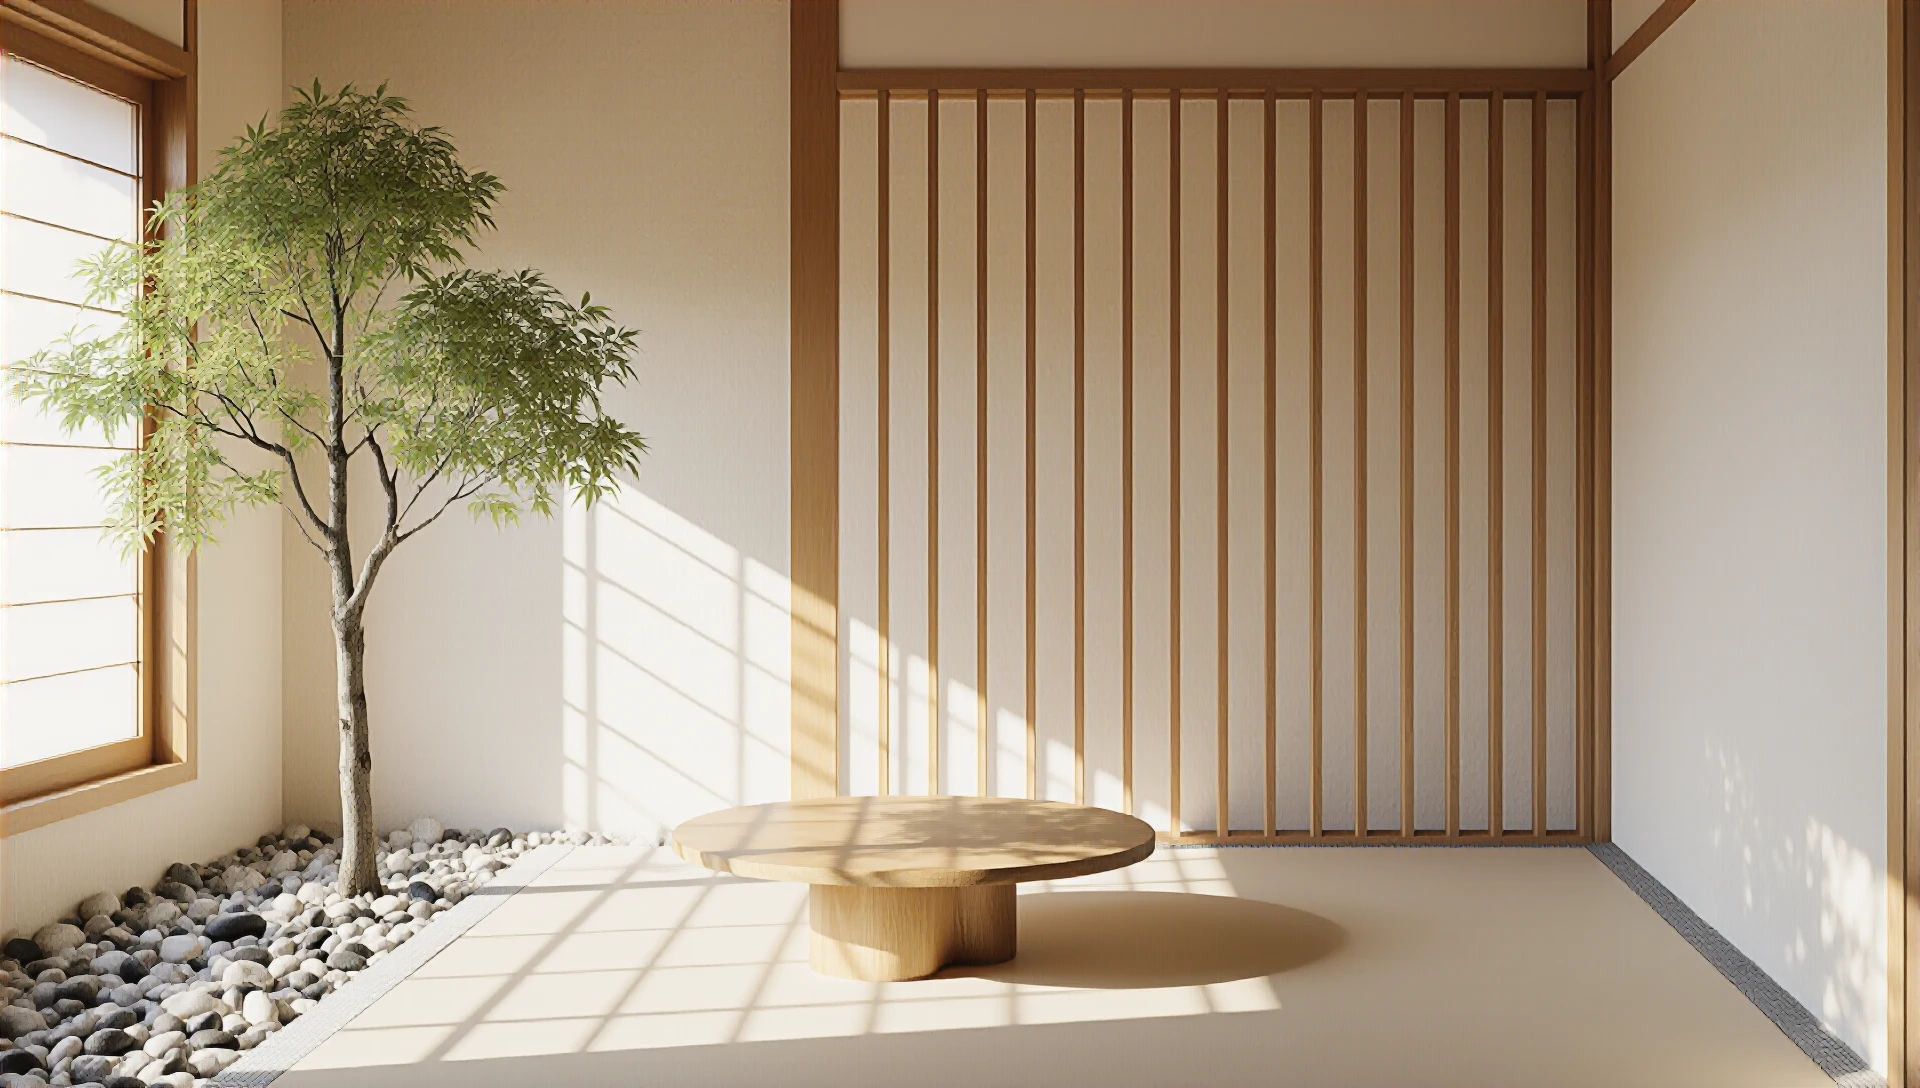
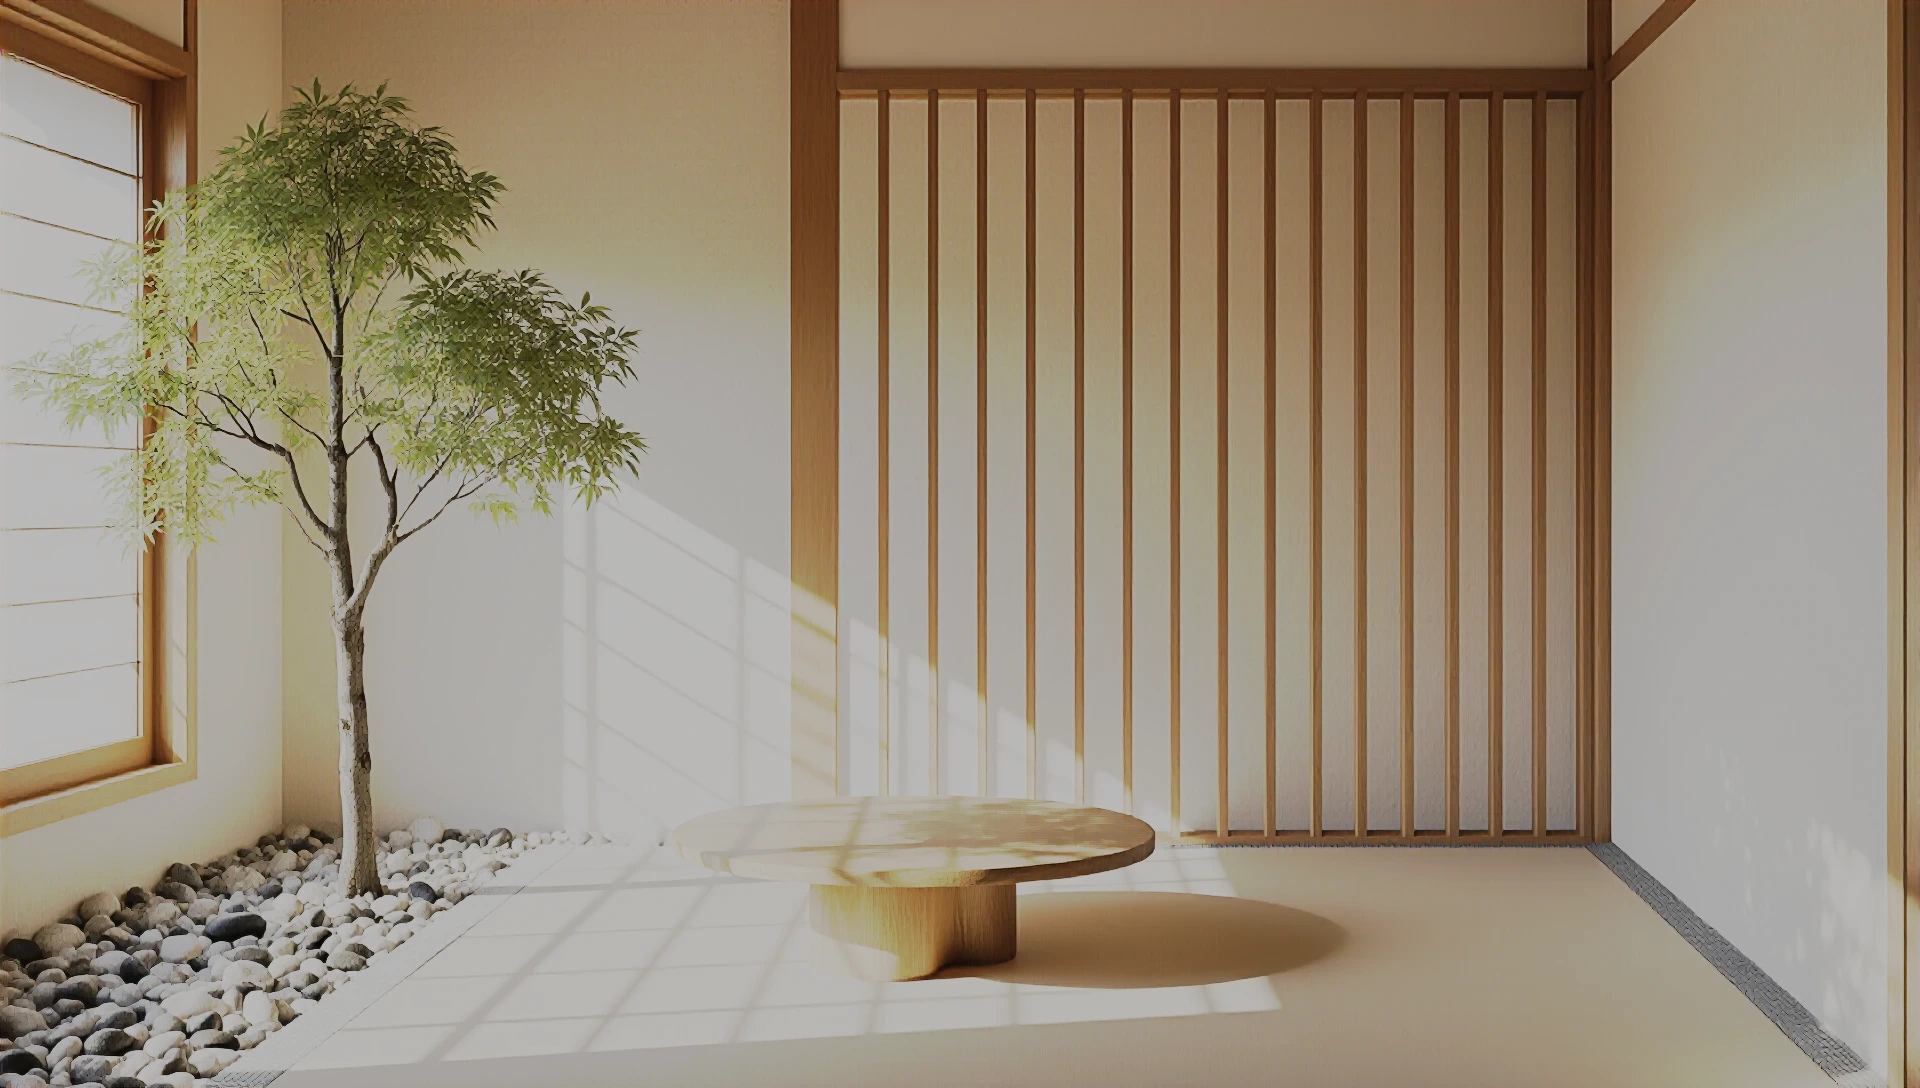
fix: khung cửa sổ làm trọng tâm ⑥⑨ + hết cháy sáng góc trên-trái ⑥
Kenji xem ảnh thật (2 breakpoint) thấy: (1) mobile ⑥⑨ crop lệch, chỉ thấy
sọc gỗ dọc/nếp rèm, khung cửa sổ (chi tiết đẹp nhất ảnh) bị đẩy ra ngoài
hoàn toàn; (2) desktop ⑥ góc trên-trái khung cửa sổ cháy sáng, mất chi tiết.

ĐO XÁC NHẬN TRƯỚC KHI SỬA (không đoán):
- Mobile center-crop mặc định của ⑥ chỉ hiện nguồn x747-1171/1920 (đúng
  dải sọc gỗ), khung cửa sổ x0-190 nằm hẳn ngoài vùng hiển thị. ⑨ tương tự:
  center hiện x800-1121, khung cửa sổ x380-820 cũng khuất.
- Vùng kính cửa sổ ⑥ (y100-400/1088, tức y9-37% section) CHÁY THẬT ở ảnh
  gốc — WCAG luminance TB 0.73, p90 0.99 — dù raw RGB chưa clip cứng
  (R 90th-pct=246/255, 99th=253/255: vẫn còn dải chi tiết bị nén chặt).

SỬA:
- essence-la-gi-v3.webp: nén highlight TOÀN ẢNH (kênh nào >160 kéo về
  160+dư×0.30) — không dùng mask cục bộ (tránh lỗi rìa đã gặp khi sửa mặt
  Kenji ở Hero, PR#73). Đã soi sọc gỗ/sàn/bàn: không đổi, chỉ pixel sáng bị
  nén. Cửa sổ giờ thấy rõ mullion/khung gỗ thay vì mảng trắng.
- background-position: ⑥ mobile 0%/0% (left top), ⑨ mobile 27%/0% — dò để
  khung cửa sổ lọt vùng hiển thị. ⑥ desktop đổi center→left (bg-cover,
  KHÔNG zoom — đã thử zoom 118% trước, kéo bóng cây tối vào đúng đoạn thân
  bài làm contrast tụt 4.54, sát ngưỡng; bỏ zoom, giữ cover thường, chỉ đổi
  position, contrast phục hồi ≥4.73). ⑨ desktop giữ nguyên (đã show khung
  cửa sổ rõ từ trước, không cần đổi).
- Veil ⑥ desktop: mở dải đầu section (0-20%) từ 92%→50%, CHỈ giữ dải hẹp
[…]

diff --git a/src/components/homepage/WhatIsEssence.tsx b/src/components/homepage/WhatIsEssence.tsx
@@ -40,9 +40,52 @@ export default function WhatIsEssence() {
           ~55-65%, không đạt — đã báo Kenji đúng mẫu "CẦN ẢNH MỚI", nhưng
           Kenji xác nhận muốn merge để xem trực tiếp, sẽ đánh giá bằng mắt sau
           khi lên production). Filter sepia(0.4) CÙNG grade tông với ④⑤⑧⑨. */}
+      {/* SỬA 24/07/2026 (brief "khung cửa sổ làm trọng tâm + hết cháy ⑥") —
+          2 thay đổi trên CHÍNH FILE ẢNH essence-la-gi-v3.webp (không phải CSS):
+          (1) khung cửa sổ shoji (x0-190/1920) là chi tiết đẹp nhất ảnh nhưng bị
+          mobile crop đẩy ra ngoài hoàn toàn (center-crop mặc định chỉ thấy
+          x747-1171 — đúng dải sọc gỗ dọc, xem dò position bên dưới);
+          (2) đo pixel xác nhận vùng kính cửa sổ (y100-400/1088, tức y9-37%
+          section) CHÁY THẬT ở ảnh gốc — không phải lỗi veil: WCAG luminance
+          trung bình 0.73, p90 0.99 (gần trắng) dù raw RGB chưa clip cứng
+          (R 90th-pct=246/255, 99th=253/255 — vẫn còn dải chi tiết nén chặt).
+          Nén highlight TOÀN ẢNH (không mask cục bộ — tránh lỗi rìa đã gặp khi
+          sửa mặt Kenji ở Hero): kênh nào >160 bị kéo về 160+phần dư×0.30. Đã
+          soi sọc gỗ + sàn + bàn vùng khác: không đổi (chỉ pixel sáng bị nén).
+          background-position đổi center → left (bg-cover, KHÔNG zoom): đã thử
+          zoom 118% trước — kéo scale ảnh lên 10.8%, làm bóng cây tối (vốn là
+          nút thắt contrast) dạt sang đúng vị trí đoạn p2, contrast tụt còn
+          4.54 (sát ngưỡng 4.5, mất hết biên an toàn PR#72). Bỏ zoom, CHỈ đổi
+          position: cover mặc định vốn cắt trái 58px nguồn (center) — đổi
+          sang left (0%) bỏ hẳn phần cắt trái, khung cửa sổ hiện từ mép x=0,
+          không đụng chiều dọc (cover khớp đúng boxH nên không crop dọc dù đổi
+          position) → không dịch chuyển bóng cây tối, contrast giữ nguyên mức
+          PR#72. Đổi trọng số sọc-gỗ-vs-cửa-sổ trên desktop CHỈ đạt được rất
+          nhẹ theo cách này (đã báo đánh đổi cho Kenji trong phiếu, xem PR). */}
       <div
-        className="absolute inset-0 bg-cover bg-center"
-        style={{ backgroundImage: "url(/images/home/essence-la-gi-v3.webp)", filter: "sepia(0.4)" }}
+        className="absolute inset-0 bg-cover hidden md:block"
+        style={{
+          backgroundImage: "url(/images/home/essence-la-gi-v3.webp)",
+          backgroundPosition: "left top",
+          filter: "sepia(0.4)",
+        }}
+        aria-hidden="true"
+      />
+      {/* SỬA 24/07/2026 — MOBILE dùng position khác hẳn desktop (dò riêng theo
+          mục 1 sổ tay): center mặc định lộ ra x747-1171/1920 = dải sọc gỗ dọc
+          thuần, khung cửa sổ (x0-190) bị đẩy hẳn ra ngoài vùng hiển thị. Dò
+          background-position-x = 0% (left) để khung cửa sổ + góc cây/đá cuội
+          (x0-425, hết dư địa dò vì boxW=375 tại scale mobile 0.883 → 1 khung
+          hiển thị rộng 425px nguồn) lọt trọn vùng hiển thị — không cần zoom
+          (mobile không có vấn đề "sọc gỗ chiếm chỗ" như desktop, vì center cũ
+          vốn đã toàn sọc gỗ, đổi hẳn position là đủ). */}
+      <div
+        className="absolute inset-0 bg-cover md:hidden"
+        style={{
+          backgroundImage: "url(/images/home/essence-la-gi-v3.webp)",
+          backgroundPosition: "left top",
+          filter: "sepia(0.4)",
+        }}
         aria-hidden="true"
       />
       {/* KHÔNG dùng bg-e26-ivory/70 — bug đã biết (xem HomeHero.tsx): token
@@ -74,19 +117,32 @@ export default function WhatIsEssence() {
           breakpoint (giống lý do HomeHero LỚP 4 tách mobile/desktop).
           THÍ NGHIỆM — CHƯA MERGE: đây là brief yêu cầu Kenji tự xem ảnh chụp
           rồi quyết giữ hay revert, không tự merge theo mục 4 (xem PR). */}
+      {/* SỬA 24/07/2026 (brief "khung cửa sổ làm trọng tâm") — MỞ dải veil
+          đầu section (trước đây phẳng 92% suốt 0-27%/0-16%, che kín khung cửa
+          sổ) xuống 50% (ngang mức thân bài, "ngưỡng mở" theo mục tiêu brief),
+          CHỈ giữ dải hẹp 92% đúng quanh vị trí Sub (dòng vẫn giữ màu yếu theo
+          PR#72 — không đổi). Đo lại xác nhận: dải hẹp 26-32%(desktop)/14-19%
+          (mobile) vẫn đủ phủ trọn worst-pixel Sub (y26.9%/15.8%) với biên
+          ≥+3.3pp — không hồi quy PR#72. H2 (16-22% desktop, dùng text-e26-text
+          mạnh — luôn dư dả) giờ nằm trong dải mở 50%, không vấn đề. */}
       <div
         className="absolute inset-0 hidden md:block"
         style={{
           backgroundImage:
-            "linear-gradient(to bottom, color-mix(in srgb, var(--essence-cream-2026) 92%, transparent) 0%, color-mix(in srgb, var(--essence-cream-2026) 92%, transparent) 27%, color-mix(in srgb, var(--essence-cream-2026) 50%, transparent) 36%, color-mix(in srgb, var(--essence-cream-2026) 50%, transparent) 65%, color-mix(in srgb, var(--essence-cream-2026) 92%, transparent) 76%, color-mix(in srgb, var(--essence-cream-2026) 92%, transparent) 100%)",
+            "linear-gradient(to bottom, color-mix(in srgb, var(--essence-cream-2026) 50%, transparent) 0%, color-mix(in srgb, var(--essence-cream-2026) 50%, transparent) 20%, color-mix(in srgb, var(--essence-cream-2026) 92%, transparent) 26%, color-mix(in srgb, var(--essence-cream-2026) 92%, transparent) 32%, color-mix(in srgb, var(--essence-cream-2026) 50%, transparent) 36%, color-mix(in srgb, var(--essence-cream-2026) 50%, transparent) 65%, color-mix(in srgb, var(--essence-cream-2026) 92%, transparent) 76%, color-mix(in srgb, var(--essence-cream-2026) 92%, transparent) 100%)",
         }}
         aria-hidden="true"
       />
+      {/* SỬA 24/07/2026 — mobile dùng vùng nhẹ 58% (không phải 50% như desktop):
+          đổi background-position (0%,0%) để lộ khung cửa sổ kéo theo đúng cột
+          bóng thân cây tối hơn vào đúng vùng thân bài (đo lại: p1 cần 51.0%,
+          p2 cần 51.9% — 50% cũ FAIL, đã xác nhận contrast 4.37/4.24 trước khi
+          sửa). 58% cho dư biên ~6pp, đo lại xác nhận PASS bên dưới. */}
       <div
         className="absolute inset-0 md:hidden"
         style={{
           backgroundImage:
-            "linear-gradient(to bottom, color-mix(in srgb, var(--essence-cream-2026) 92%, transparent) 0%, color-mix(in srgb, var(--essence-cream-2026) 92%, transparent) 16%, color-mix(in srgb, var(--essence-cream-2026) 50%, transparent) 26%, color-mix(in srgb, var(--essence-cream-2026) 50%, transparent) 78%, color-mix(in srgb, var(--essence-cream-2026) 92%, transparent) 86%, color-mix(in srgb, var(--essence-cream-2026) 92%, transparent) 100%)",
+            "linear-gradient(to bottom, color-mix(in srgb, var(--essence-cream-2026) 58%, transparent) 0%, color-mix(in srgb, var(--essence-cream-2026) 58%, transparent) 10%, color-mix(in srgb, var(--essence-cream-2026) 92%, transparent) 14%, color-mix(in srgb, var(--essence-cream-2026) 92%, transparent) 19%, color-mix(in srgb, var(--essence-cream-2026) 58%, transparent) 26%, color-mix(in srgb, var(--essence-cream-2026) 58%, transparent) 78%, color-mix(in srgb, var(--essence-cream-2026) 92%, transparent) 86%, color-mix(in srgb, var(--essence-cream-2026) 92%, transparent) 100%)",
         }}
         aria-hidden="true"
       />

diff --git a/src/components/homepage/NotesTeaser.tsx b/src/components/homepage/NotesTeaser.tsx
@@ -131,13 +131,38 @@ export default function NotesTeaser() {
           desktop / 17.6% mobile ở màu mới — chốt 45% (dư biên +5.2pp desktop,
           rất dư ở mobile). Thấp hơn cả ⑧ (55%). H2 luôn dư dả (không đổi).
           THÍ NGHIỆM — CHƯA MERGE, xem PR. */}
+      {/* SỬA 24/07/2026 (brief "khung cửa sổ làm trọng tâm") — desktop giữ
+          bg-center (đo: center hiện đã show gần trọn ảnh x69-1851/1920, khung
+          cửa sổ x380-820 đã nằm giữa khung hình rõ ràng — không cần đổi).
+          MOBILE đổi hẳn: center mặc định lộ x800-1121/1920 (đúng nếp rèm phải
+          + mảng tường trống, khung cửa sổ x380-820 hoàn toàn khuất) — dò
+          background-position-x 27% để dải hiển thị (rộng ~321px nguồn) canh
+          giữa đúng khung cửa sổ (tâm cửa sổ x≈600). */}
       <div
-        className="absolute inset-0 bg-cover bg-center"
+        className="absolute inset-0 bg-cover bg-center hidden md:block"
         style={{ backgroundImage: "url(/images/home/ghi-chep-essence-v3.webp)", filter: "sepia(0.4)" }}
         aria-hidden="true"
       />
       <div
-        className="absolute inset-0 bg-[color-mix(in_srgb,var(--essence-cream-2026)_45%,transparent)]"
+        className="absolute inset-0 bg-cover md:hidden"
+        style={{
+          backgroundImage: "url(/images/home/ghi-chep-essence-v3.webp)",
+          backgroundPosition: "27% top",
+          filter: "sepia(0.4)",
+        }}
+        aria-hidden="true"
+      />
+      {/* SỬA 24/07/2026 — đổi position mobile kéo theo pixel tối hơn (nếp
+          rèm/khung gỗ) vào đúng vùng đoạn intro: đo lại cần 46.0% (so 39.8%
+          desktop cũ) — 45% chung FAIL trên mobile (contrast đo được 4.38).
+          Tách veil mobile 52% (dư biên ~6pp), giữ desktop 45% (không đổi, vị
+          trí ảnh desktop không đổi nên số cũ vẫn đúng). */}
+      <div
+        className="absolute inset-0 bg-[color-mix(in_srgb,var(--essence-cream-2026)_45%,transparent)] hidden md:block"
+        aria-hidden="true"
+      />
+      <div
+        className="absolute inset-0 bg-[color-mix(in_srgb,var(--essence-cream-2026)_52%,transparent)] md:hidden"
         aria-hidden="true"
       />
       <div className="relative z-10 max-w-4xl mx-auto text-center">